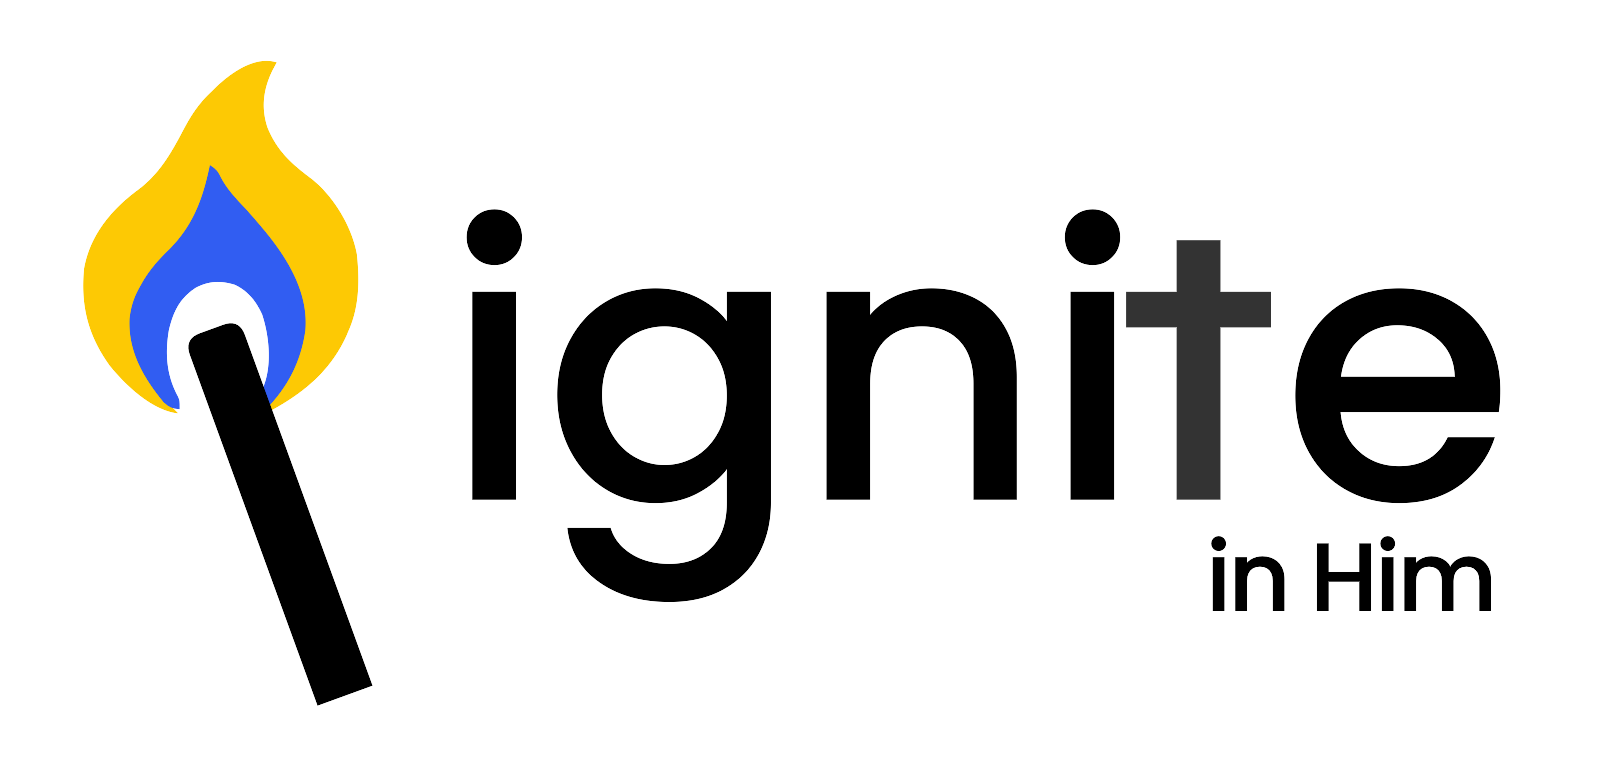
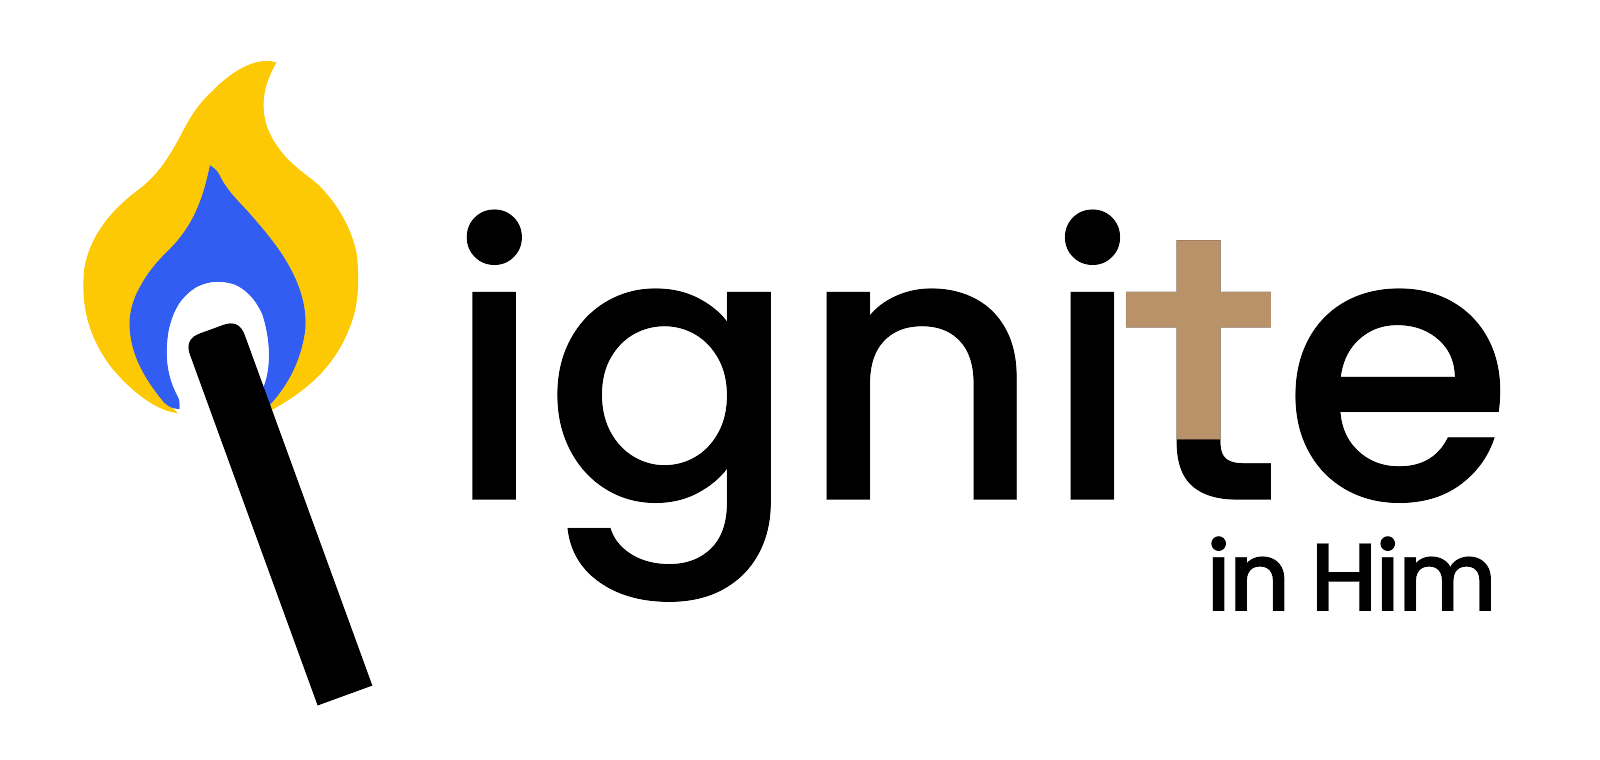
Follow sketched t with light brown cross and original black foot

Changed region(s): [[0.6875, 0.3026, 0.8125, 0.6658]]

diff --git a/final/brand/explorations/matchstick-i-cross/README.md b/final/brand/explorations/matchstick-i-cross/README.md
@@ -1,5 +1,7 @@
 # Cross-shaped t explorations
 
-The original layout and both matchstick-i variants use a single charcoal (#333333) cross silhouette in place of the t. The t itself is the cross: there is no inset, outline, or frame. Its horizontal arms extend equally from the stem, and the stem ends straight at the baseline. The dark charcoal takes its cue from the supplied tonal reference.
+Revised to follow the supplied hand-drawn reference. Areas marked red in the sketch retain the original black (#000000); the dark cross area becomes light brown (#B9926A).
 
-Each logo is provided as a self-contained SVG and transparent PNG. `ignite-logo-cross-comparison.png` shows all three together. The previous no-cross comparison, approved brand assets, website, and presentation slides remain unchanged.
+The t retains its curved black foot. Its upper stem and balanced horizontal arms form the light-brown cross, which reaches the outer edges of the letter without a black inset frame.
+
+The original layout and both matchstick-i alternatives are included as self-contained SVGs and transparent PNGs. `ignite-logo-cross-comparison.png` shows all three. Approved brand assets, website, slides, and the no-cross comparison are unchanged.
